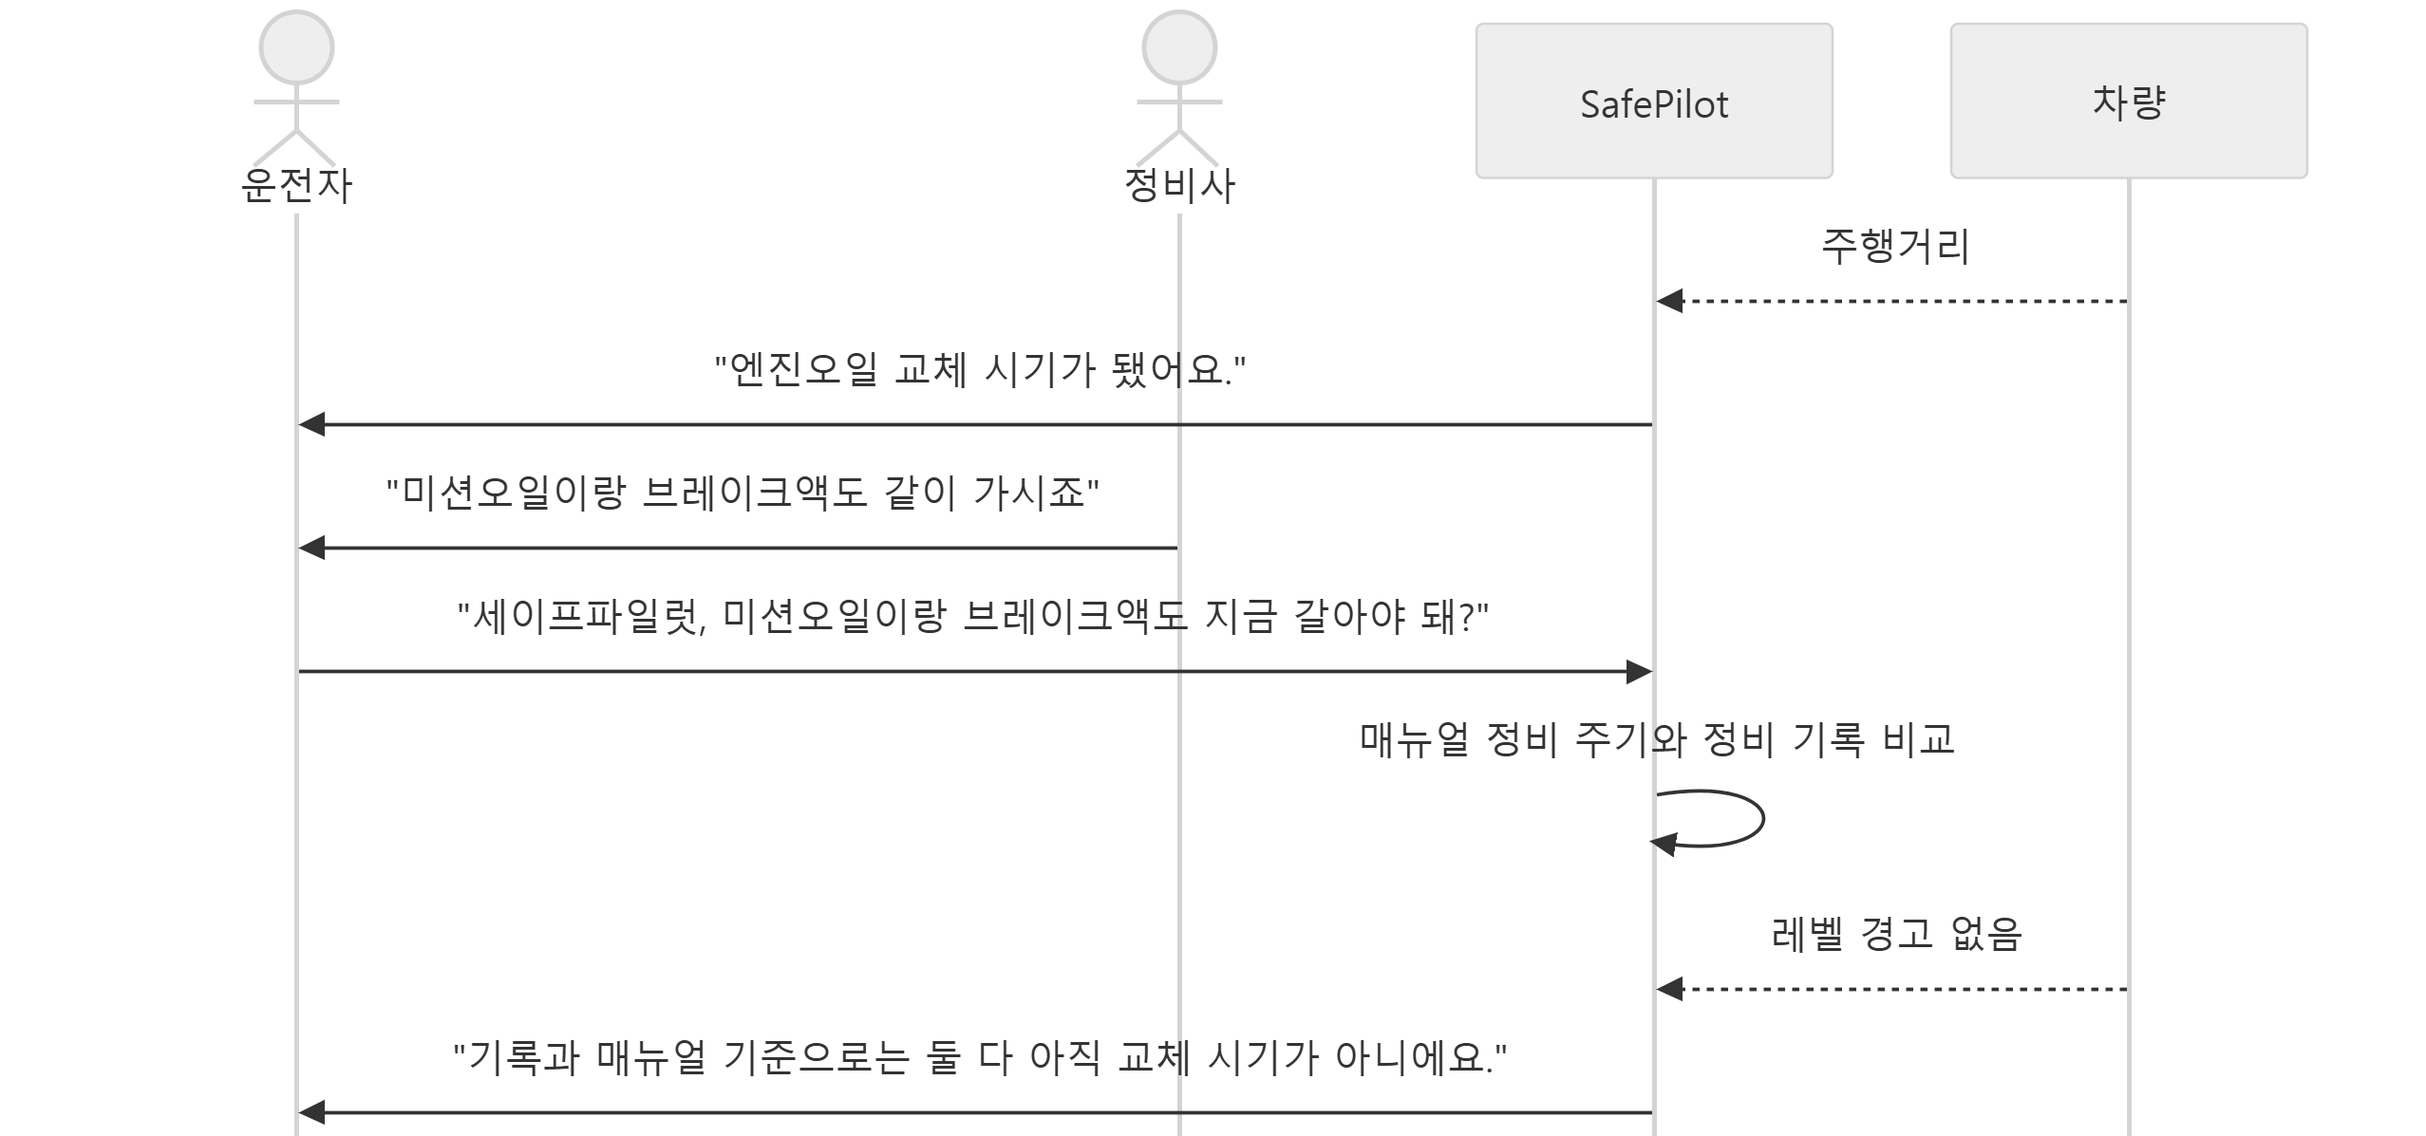
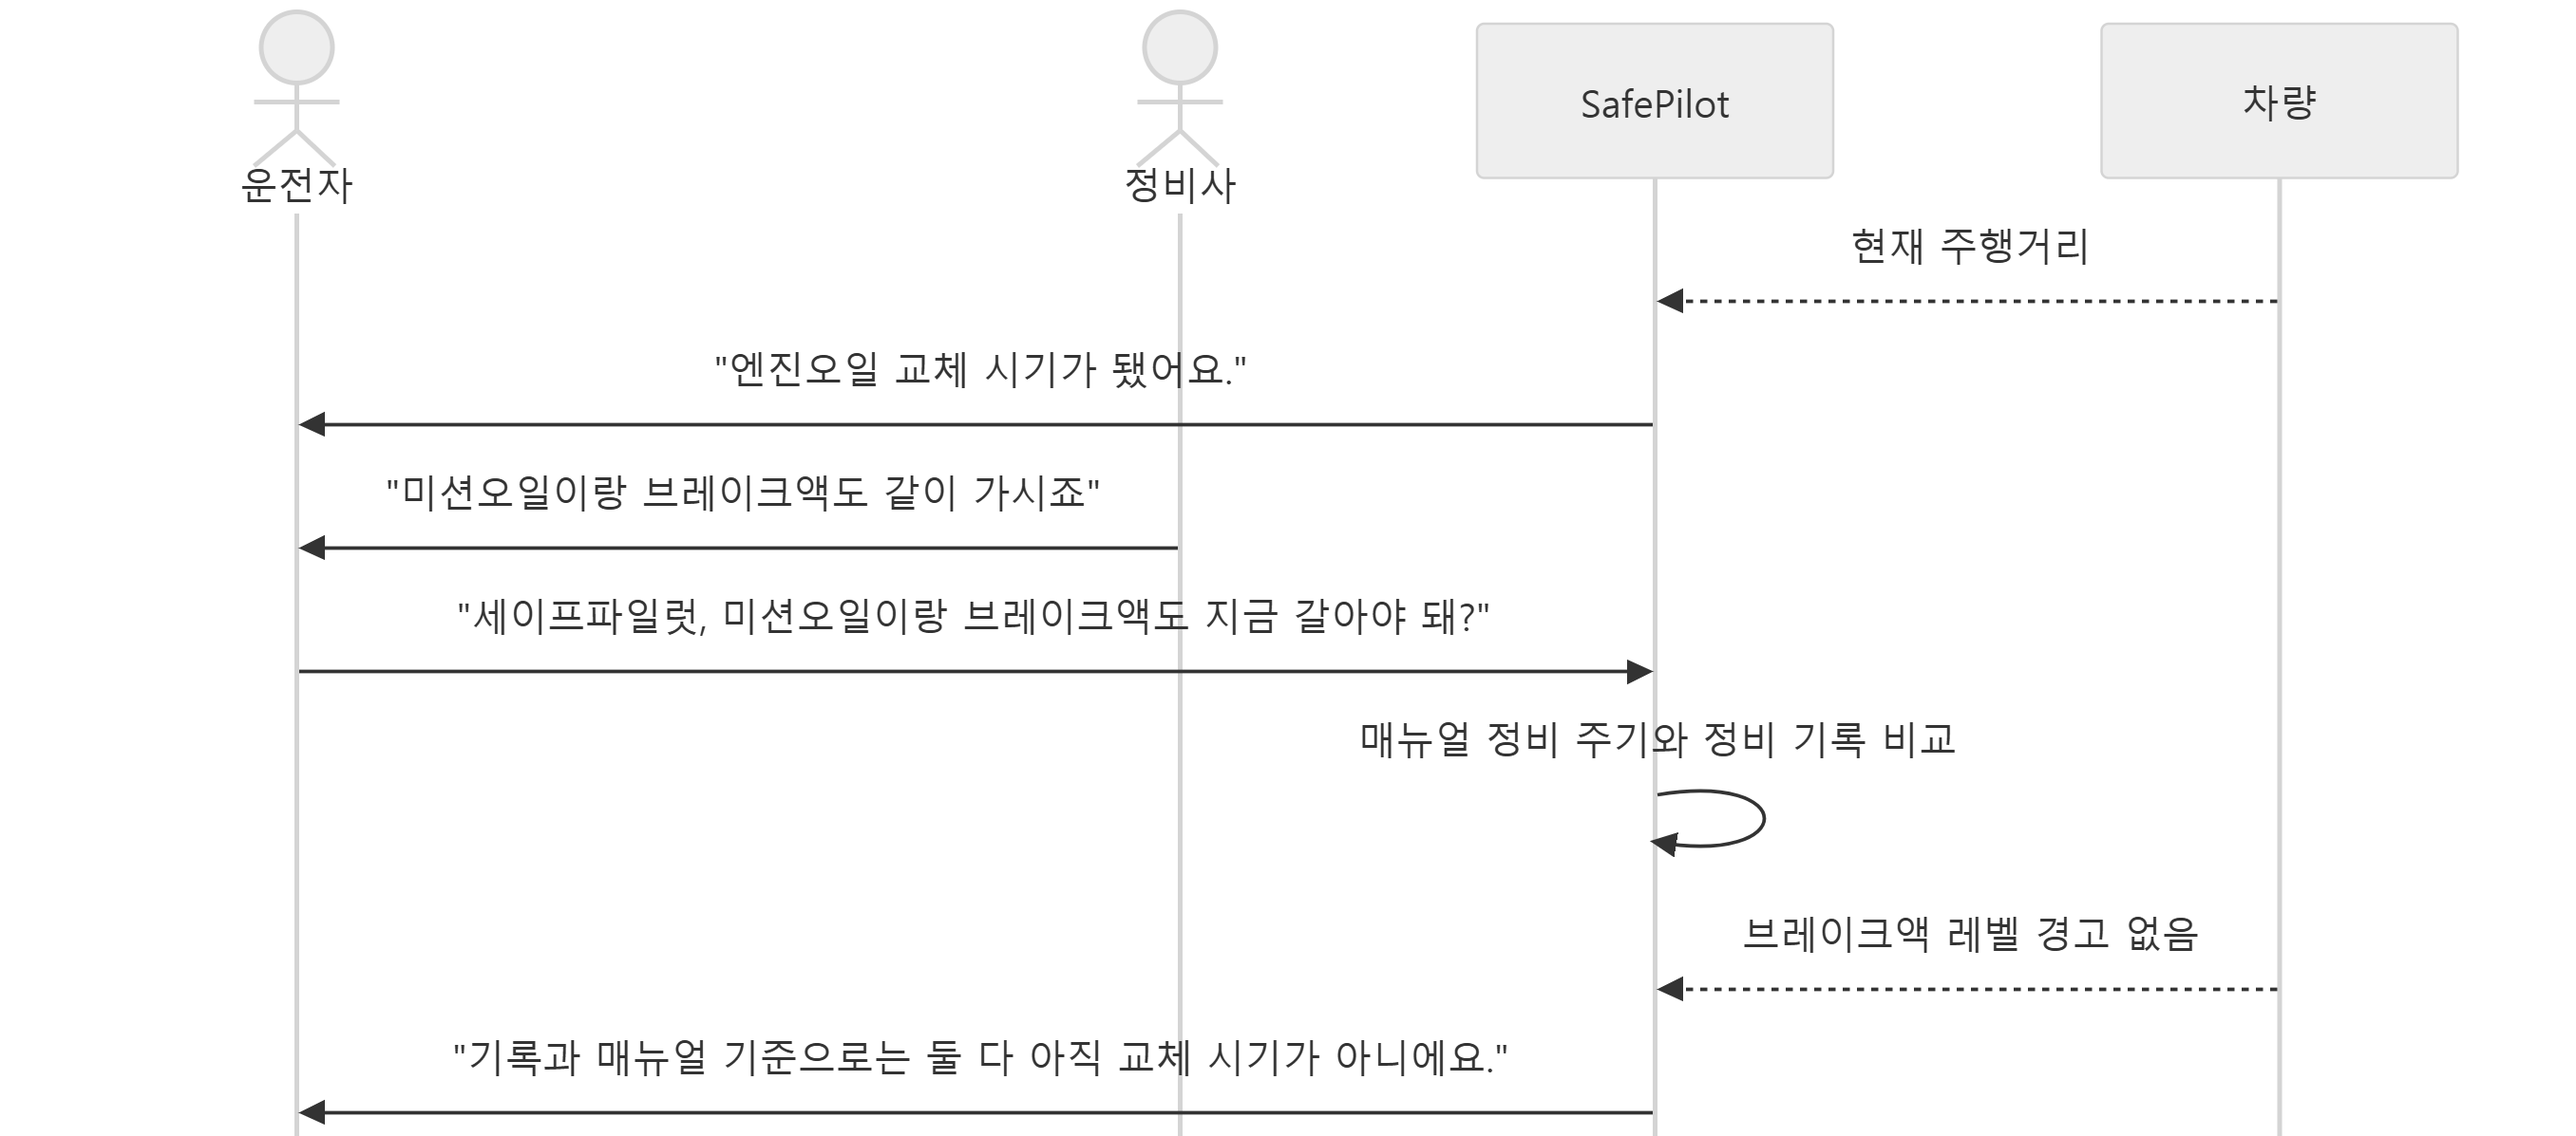
기획서 검토 반영(GPT 교차 검토): 시나리오 3 종료 조건, 그림 문구, Gleo 역할 분담, 일정 상태, 표기 통일

diff --git a/proposal/draft.md b/proposal/draft.md
@@ -78,17 +78,17 @@ Pleos Connect 차량 데이터로 주차, 정비, 사고 등 운전자가 마주
 - 정비소에서 정비사가 "미션오일이랑 브레이크액도 같이 가시죠"라고 권합니다.
 - 운전자가 SafePilot을 불러 묻습니다. "세이프파일럿, 미션오일이랑 브레이크액도 지금 갈아야 돼?"
 - SafePilot이 매뉴얼의 정비 주기와 등록된 기록을 비교해 답합니다. "기록과 매뉴얼 기준으로는 둘 다 아직 교체 시기가 아니에요. 실제 상태 때문에 권하시는 건지 정비사님께 여쭤보세요."
-- 화면에는 항목별로 "교체 시기", "아직 아님", "기록 없음"을 보여 줍니다. 관련 레벨 경고가 켜져 있으면 교체 시기와 관계없이 점검을 권합니다.
+- 화면에는 항목별로 "교체 시기", "아직 아님", "기록 없음"을 보여 줍니다. 브레이크액 레벨 경고처럼 관련 경고가 켜져 있으면 교체 시기와 관계없이 점검을 권합니다.
 
 **시나리오 3. 접촉 사고 (갑작스러운 상황에 당황한 운전자)**
 
 ![접촉 사고 시퀀스](diagrams/05_accident.png)
 
-- 주행 중 충격이 있고 곧바로 차가 멈추면 SafePilot이 묻습니다. "충격이 감지됐어요. 괜찮으세요?" 충격만으로 사고라고 단정하지 않고, 운전자가 아니라고 하면 바로 끝냅니다. 운전자가 "사고 났어"라고 말해서 시작할 수도 있습니다.
+- 주행 중 충격이 있고 곧바로 차가 멈추면 SafePilot이 묻습니다. "충격이 감지됐어요. 괜찮으세요?" 충격만으로 사고라고 단정하지 않고, 운전자가 사고가 아니라고 하면 바로 끝냅니다. 운전자가 "사고 났어"라고 말해서 시작할 수도 있습니다.
 - 부상 여부를 묻습니다. 다쳤다고 답하면 119 번호와 통화 버튼을 바로 보여 줍니다.
 - 차량 상태를 알려 주고 안전 조치를 안내합니다. "에어백 전개는 감지되지 않았어요. 주변이 안전하면 비상등을 켜 주세요."
 - 안전하게 할 수 있을 때 앞뒤 사진 촬영과 안전한 곳으로 이동을 안내하고, 차량 등록 때 고른 보험사의 사고 접수 번호를 보여 줍니다.
-- 충격 감지는 가속도 센서를 앱에서 쓸 수 있는지 검증한 뒤 적용합니다. 그 전에는 운전자의 음성으로 시작합니다.
+- 충격 감지는 가속도 센서 검증 뒤 적용하고, 그 전에는 운전자의 음성으로 시작합니다.
 
 **그 밖의 상황**
 
@@ -115,20 +115,20 @@ Pleos Connect 차량 데이터로 주차, 정비, 사고 등 운전자가 마주
   - 창문 상태: 자동 세차 전 창문 닫힘 확인
   - CarInfo: VIN(차종 후보 제시, 차량 등록 화면에서 운전자가 최종 확인)
 - Gleo Interface(Gleo AI 연동): 앱에 App Schema를 넣어 호출 이름 "세이프파일럿"과 기능 2개(주차 확인, 타이어 경고 안내)를 등록합니다. Gleo가 운전자의 말을 해석해 앱을 열면 안내를 시작하고 결과를 Gleo에 돌려줍니다. 에뮬레이터에서 실제 음성 호출까지 확인했고, 정식 반영은 Pleos의 스키마 검토 후입니다.
-- Pleos SpeechToText / TextToSpeech: 한국어, 기기 내 처리(ON_DEVICE)로 네트워크 없이 동작. 앱이 질문한 직후 몇 초와 마이크 버튼을 눌렀을 때만 듣습니다.
+- Pleos STT/TTS(SpeechToText, TextToSpeech): 한국어, 기기 내 처리(ON_DEVICE)로 네트워크 없이 동작. 앱이 질문한 직후 몇 초와 마이크 버튼을 눌렀을 때만 듣습니다.
 - AAOS CarPropertyManager: 속도(PERF_VEHICLE_SPEED), 주차 브레이크 상태(PARKING_BRAKE_ON)
-- Android SensorManager: 가속도 급변(충격) 감지. 충격과 정차가 함께 있을 때만 충돌을 의심합니다.
+- Android SensorManager: 가속도 급변(충격) 감지
 - 차량 제어 API는 쓰지 않습니다.
 
 **확인 중인 것과 대체 방법**
 
+- 공통 원칙: 모든 차량 데이터는 지원 여부를 먼저 확인하고, 지원하지 않으면 "확인 불가"로 표시한 뒤 운전자에게 묻습니다.
 - 경고등 권한: 경고등 조회와 바퀴별 공기압은 PRIVATE_CAR_SAFETY 권한이 필요해 사용 가능 여부를 확인하고 있습니다. 쓸 수 없으면 주차 브레이크는 AAOS PARKING_BRAKE_ON으로 읽습니다.
 - 에뮬레이터가 지원하지 않는 데이터: 에어백 전개, 엔진오일과 브레이크액 레벨, 바퀴별 공기압은 API는 있지만 에뮬레이터에서 값이 나오지 않습니다. 실차에서 확인하고, 그 전에는 "확인 불가"로 표시한 뒤 운전자에게 묻습니다.
 - 비상등: 앱에서 읽을 수 없어 운전자에게 켰는지 묻습니다.
 - 핸들 방향: 각도를 읽어도 도로의 어느 쪽이 가장자리인지는 앱이 알 수 없으므로, 최종 확인은 운전자에게 묻습니다.
 - 가속도 센서: 에뮬레이터에서는 보정 전 가속도 센서로 시험했고, 실차 제공 여부를 확인한 뒤 적용합니다. 쓸 수 없으면 사고 안내는 음성으로 시작합니다.
 - 주행 중 사용 허가: 에뮬레이터에서 주행 중에는 Pleos가 앱 화면을 가리고 "주행 중에는 사용할 수 없습니다"를 표시했고, 음성 안내는 계속 나왔습니다. 허가 방법을 확인하기 전까지는 정차와 주차 중 사용을 기준으로 하고, 주행 중에는 음성으로만 안내합니다.
-- 모든 차량 데이터는 지원 여부를 먼저 확인하고, 지원하지 않으면 "확인 불가"로 표시한 뒤 운전자에게 묻습니다.
 
 **앱 구조**
 
@@ -137,15 +137,14 @@ Pleos Connect 차량 데이터로 주차, 정비, 사고 등 운전자가 마주
 - vehicle: Vehicle SDK와 AAOS 데이터를 하나의 차량 상태로 통합(VehicleRepository, VehicleSnapshot)
 - engine: 상황 감지, 시나리오별 안내 단계, 음성 의도 분류(SituationDetector, Scenarios, IntentClassifier)
 - session: 안내, 결과 확인, 답 듣기로 이어지는 대화 진행(SessionController)
-- voice: Pleos STT/TTS와 Gleo AI 호출 처리(PleosSpeaker, PleosListener, GleoActions)
-- ui: 차량 상태, 안내 카드, 예/아니요, 마이크 화면
+- voice: Pleos STT/TTS로 말하기와 듣기, Gleo AI 호출 해석과 결과 회신(PleosSpeaker, PleosListener, GleoActions)
+- ui: 차량 상태, 안내 카드, 예/아니요, 마이크 화면, Gleo AI 호출 받기
 - 1차 합격 후 추가: 차종별 매뉴얼 정보(JSON)와 차량 등록, 정비 기록
 
 **일정**
 
-- 11/4~11/6: 개발 환경 구축, 에뮬레이터에서 차량 데이터 조회 검증
-- 11/7~11/11: 앱 골격, STT/TTS 연결, 경사로 주차와 타이어 저압 시나리오 구현
-- 11/12~11/15: 화면 다듬기, 시연 영상, GitHub 저장소와 APK 준비, 기획서 제출
+- 11/4~11/7(완료): 개발 환경 구축, 에뮬레이터에서 차량 데이터 조회 검증, 앱 골격, STT/TTS 연결, 경사로 주차와 타이어 저압 시나리오, Gleo AI 음성 호출 구현
+- 11/8~11/15(예정): 화면 다듬기, 시연 영상, GitHub 저장소와 APK 준비, 기획서 제출
 - 1차 합격 후(~12/2): 차량 등록과 정비 기록, 정비 권유 확인, 경고등, 자동 세차 시나리오 추가. 사고 안내는 가속도 센서 검증 결과에 따라 충격 감지형 또는 음성 시작형으로 구현
 
 ## 6. 기대효과 및 발전 가능성
@@ -179,7 +178,7 @@ Pleos Connect 차량 데이터로 주차, 정비, 사고 등 운전자가 마주
 
 ## 7. 참고자료
 
-- 앱 설계서: SafePilot 설계서(차량 데이터 매핑, 아키텍처, 대화 흐름, 테스트 계획) — 첨부 파일명 기재 예정
+- 앱 설계서: SafePilot 설계서(차량 데이터 매핑, 아키텍처, 대화 흐름, 테스트 계획), 첨부 파일명 기재 예정
 - 시연 영상(화면 녹화): 제출 전 링크 기재 예정
 - GitHub 저장소(소스 코드, apk/ 폴더의 release APK): 제출 전 링크 기재 예정
 
